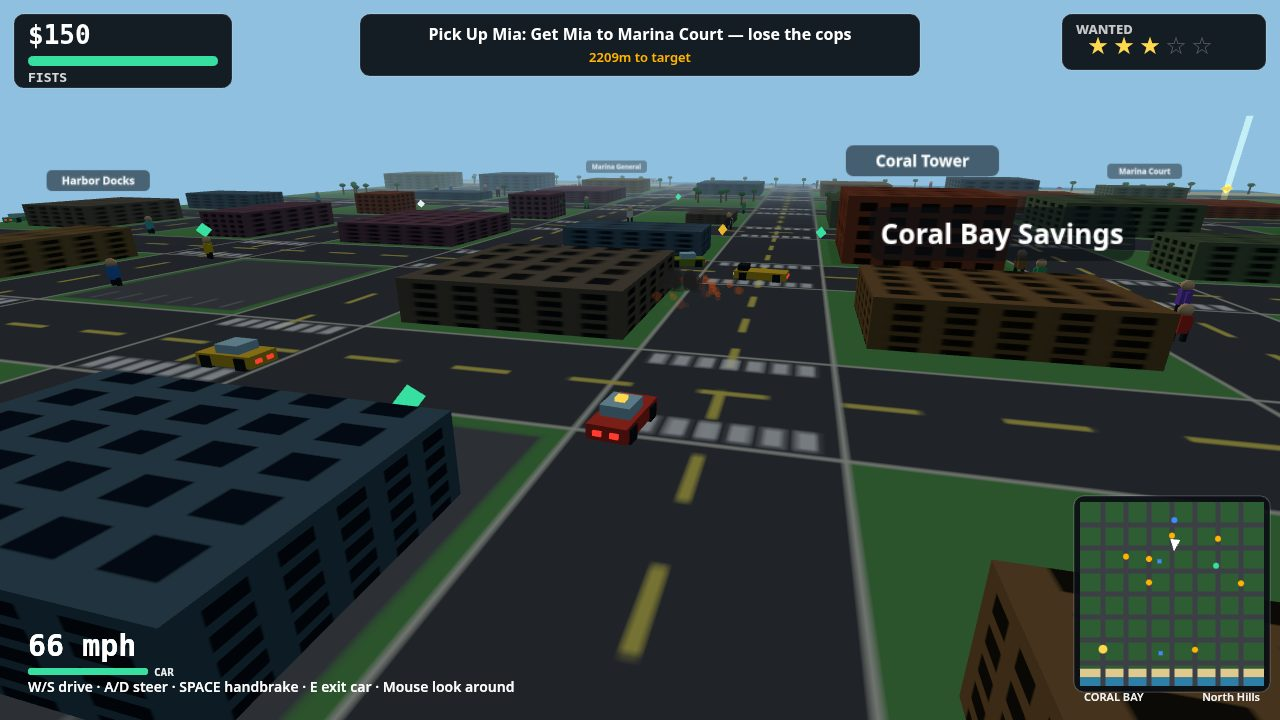
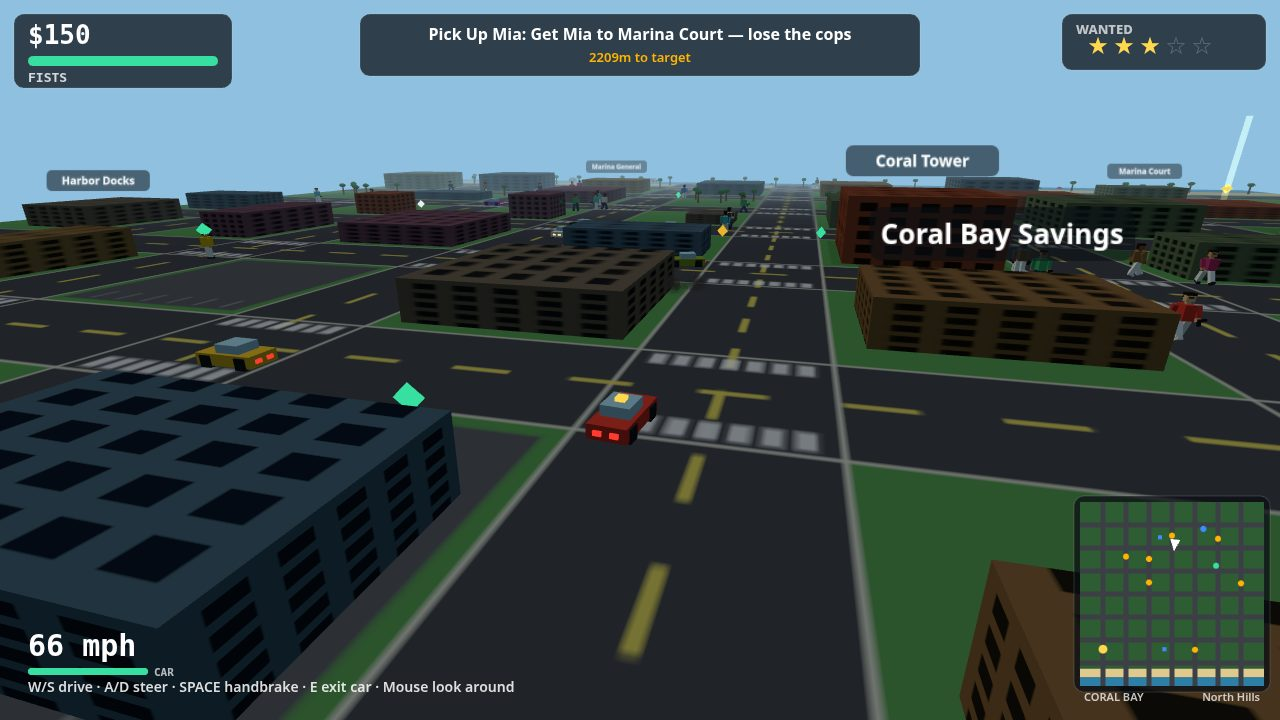
Coral Heat: CJ-style characters — SA-grade humanoid rig + walk/run/aim/punch animation

diff --git a/game/src/render.js b/game/src/render.js
@@ -501,44 +501,119 @@ export function createRenderer(canvas) {
     return { group, body, bodyMat, barL, barR };
   }
 
-  function buildPersonMesh(shirtColor, opts) {
+  // --- Humanoids: one CJ-style rig for everybody. ---
+  // GTA San Andreas reads because CJ is a person first: a head with hair
+  // and a face, a jacket over a tee, jeans, sneakers, and arms and legs
+  // that swing when he walks. The rig is still low-poly boxes on shared
+  // geometry/materials — no shadows, no textures — so it costs draw calls
+  // only. Local +X is forward (rotation.y = -angle, same as the cars).
+  // Limbs hang from pivot groups at the joints, so the walk cycle is a
+  // rotation on each pivot, never a new mesh.
+  const SKINS = ['#e8b98a', '#c98d5f', '#8a5a3a', '#d9a06b'];
+  const PANTS = ['#2f3f66', '#3a3f45', '#5a4a3a', '#2a4a3a'];
+  function hashStr(s) {
+    let h = 0;
+    for (let i = 0; i < s.length; i += 1) h = (h * 31 + s.charCodeAt(i)) >>> 0;
+    return h;
+  }
+  // Danny: teal jacket open over a white tee, blue jeans, white sneakers.
+  // Cop: navy uniform, cap with brim, badge. Thug: dark hoodie, bandana.
+  const OUTFITS = {
+    player: { skin: '#c98d5f', shirt: '#1f8a70', tee: '#f2f2f2', pants: '#2f3f66', shoes: '#f2f2f2', hair: '#1c1410', hat: null, gun: true },
+    cop: { skin: '#d9a06b', shirt: '#2a4a7a', tee: null, pants: '#1e2a38', shoes: '#14161a', hair: '#2a2018', hat: 'police', gun: true },
+    thug: { skin: '#b57a4e', shirt: '#7a2a2a', tee: null, pants: '#33333a', shoes: '#22262b', hair: '#14100c', hat: 'bandana', gun: true },
+  };
+  function pedOutfit(shirtColor) {
+    const h = hashStr(shirtColor || '#c8a24a');
+    return {
+      skin: SKINS[h % SKINS.length],
+      shirt: shirtColor || '#c8a24a',
+      tee: null,
+      pants: PANTS[(h >> 3) % PANTS.length],
+      shoes: (h >> 5) % 2 ? '#f2f2f2' : '#22262b',
+      hair: '#241a12',
+      hat: null,
+      gun: false,
+    };
+  }
+
+  function box(w, h, d, mat, x, y, z, parent) {
+    const m = new THREE.Mesh(unitBox, mat);
+    m.scale.set(w, h, d);
+    m.position.set(x, y, z);
+    parent.add(m);
+    return m;
+  }
+
+  function buildPersonMesh(outfit) {
     const group = new THREE.Group();
-    const shirtMat = lambert(shirtColor);
-    const body = new THREE.Mesh(unitBox, shirtMat);
-    body.scale.set(9, 15, 7);
-    body.position.y = 15;
-    group.add(body);
-    const head = new THREE.Mesh(headGeo, skinMat);
-    head.scale.set(5.2, 5.2, 5.2);
-    head.position.y = 26;
-    group.add(head);
-    for (const z of [5, -5]) {
-      const arm = new THREE.Mesh(unitBox, shirtMat);
-      arm.scale.set(3, 11, 3);
-      arm.position.set(0, 15, z);
-      group.add(arm);
+    const skinMat = lambert(outfit.skin);
+    const shirtMat = lambert(outfit.shirt);
+    const pantsMat = lambert(outfit.pants);
+    const shoesMat = lambert(outfit.shoes);
+    const hairMat = lambert(outfit.hair);
+    const darkMat2 = lambert('#14161a');
+    const teeMat = outfit.tee ? lambert(outfit.tee) : null;
+
+    // Legs: pivot at the hip (y 18), jeans down to the ankle, shoe
+    // pointing forward. rotation.z swings the whole leg forward/back.
+    function buildLeg(z) {
+      const pivot = new THREE.Group();
+      pivot.position.set(0, 18, z);
+      box(5, 15, 4.5, pantsMat, 0, -7.5, 0, pivot);
+      box(6.5, 2.5, 3.5, shoesMat, 1, -15.8, 0, pivot);
+      group.add(pivot);
+      return pivot;
     }
-    for (const z of [4, -4]) {
-      const leg = new THREE.Mesh(unitBox, darkMat);
-      leg.scale.set(4, 9, 3);
-      leg.position.set(0, 4.5, z);
-      group.add(leg);
+    const legL = buildLeg(3.2);
+    const legR = buildLeg(-3.2);
+
+    // Upper body pivots at the hips: it leans forward on a run and
+    // breathes at idle. Torso is the jacket; the tee shows on the chest.
+    const upper = new THREE.Group();
+    upper.position.set(0, 18, 0);
+    group.add(upper);
+    box(13, 13, 8, shirtMat, 0, 6.5, 0, upper);
+    if (teeMat) box(1, 9, 6, teeMat, 6.6, 7, 0, upper);
+    if (outfit.hat === 'police') box(0.6, 2.5, 2.5, lambert('#e8b62a'), 6.6, 9, -2.5, upper);
+
+    // Arms: pivot at the shoulder, sleeve down to the wrist, skin hand.
+    // The pistol rides in the right hand, so it follows the arm.
+    function buildArm(z) {
+      const pivot = new THREE.Group();
+      pivot.position.set(0, 12, z);
+      box(3.5, 10, 3.5, shirtMat, 0, -5, 0, pivot);
+      box(3, 3.5, 3, skinMat, 0, -11.5, 0, pivot);
+      upper.add(pivot);
+      return pivot;
     }
-    let gun = null;
-    if (opts.gun) {
-      gun = new THREE.Mesh(unitBox, darkMat);
-      gun.scale.set(11, 2.5, 2.5);
-      gun.position.set(8, 16, 0);
-      group.add(gun);
-    }
-    if (opts.cap) {
-      const cap = new THREE.Mesh(unitBox, copDarkMat);
-      cap.scale.set(9, 3, 9);
-      cap.position.y = 30;
-      group.add(cap);
+    const armL = buildArm(7.8);
+    const armR = buildArm(-7.8);
+    const gun = new THREE.Group();
+    gun.position.set(2, -12.5, 0);
+    box(9, 2, 2, darkMat2, 3, 0, 0, gun);
+    box(2, 4.5, 2, darkMat2, -0.5, -2, 0, gun);
+    armR.add(gun);
+
+    // Neck, then the head: skin box, hair cap on top and at the back,
+    // one dark eye strip across the face, and a hat where the outfit
+    // calls for one.
+    box(3, 2.5, 3, skinMat, 0, 13.5, 0, upper);
+    const head = new THREE.Group();
+    head.position.set(0, 15, 0);
+    upper.add(head);
+    box(6, 6, 6, skinMat, 0, 3, 0, head);
+    box(6.5, 2, 6.5, hairMat, 0, 6.2, 0, head);
+    box(1.2, 4.5, 6, hairMat, -2.8, 3, 0, head);
+    box(0.6, 1.1, 3.4, darkMat2, 3.1, 3.5, 0, head);
+    if (outfit.hat === 'police') {
+      box(7, 1.8, 7, copDarkMat, 0, 6.5, 0, head);
+      box(4, 0.7, 5.5, darkMat2, 4.2, 5.9, 0, head);
+    } else if (outfit.hat === 'bandana') {
+      box(6.6, 1.4, 6.6, lambert('#c23a2e'), 0, 5.6, 0, head);
     }
     scene.add(group);
-    return { group, gun };
+    return { group, upper, legL, legR, armL, armR, gun };
   }
 
   function buildPickupMesh(kind) {
@@ -582,21 +657,89 @@ export function createRenderer(canvas) {
     }
   }
 
+  // Walk cycle state lives on the pool record (render-side only — the
+  // sim never sees it). Speed comes from position deltas, so it works
+  // for every kind of walker, and the stride phase advances by the
+  // distance actually travelled: a screenshot staged over 2.5 s of sim
+  // still catches its people mid-stride. A fresh record starts in the
+  // pose its motion state implies, so the first paint is already right.
   function syncPerson(obj, kind, time, phase) {
     let rec = personPool.get(obj);
     if (!rec) {
-      if (kind === 'player') rec = buildPersonMesh('#1f8a70', { gun: true });
-      else if (kind === 'cop') rec = buildPersonMesh('#2a4a7a', { gun: true, cap: true });
-      else if (kind === 'thug') rec = buildPersonMesh('#7a2a2a', { gun: true });
-      else rec = buildPersonMesh(obj.shirt || '#c8a24a', { gun: false });
+      const outfit = kind === 'player' ? OUTFITS.player
+        : kind === 'cop' ? OUTFITS.cop
+        : kind === 'thug' ? OUTFITS.thug
+        : pedOutfit(obj.shirt);
+      rec = buildPersonMesh(outfit);
+      rec.lastX = obj.x;
+      rec.lastY = obj.y;
+      rec.lastTime = time;
+      rec.phase = phase;
+      const moving = kind === 'player' ? !!obj.moving : obj.state !== 'down' && obj.state !== 'fare';
+      rec.amp = moving ? 1 : 0;
+      rec.aim = (kind === 'cop' || kind === 'thug' || (kind === 'player' && obj.weapon === 'pistol')) ? 1 : 0;
+      rec.punch = 0;
       personPool.set(obj, rec);
     }
     const down = obj.state === 'down' || obj.hp <= 0;
-    const bob = down ? 0 : Math.abs(Math.sin(time * 9 + phase)) * 1.6;
+    let dt = time - rec.lastTime;
+    if (dt < 0) dt = 0;
+    if (dt > 0.3) dt = 0.3;
+    const moved = Math.hypot(obj.x - rec.lastX, obj.y - rec.lastY);
+    const speed = dt > 0.001 ? Math.min(moved / dt, 420) : 0;
+    rec.lastX = obj.x;
+    rec.lastY = obj.y;
+    rec.lastTime = time;
+    rec.phase += moved * 0.055;
+    const ampTarget = down ? 0 : Math.min(1, speed / 140);
+    rec.amp += (ampTarget - rec.amp) * Math.min(1, dt * 8);
+    const armed = kind === 'cop' || kind === 'thug' || (kind === 'player' && obj.weapon === 'pistol');
+    const aimTarget = down ? 0 : (armed ? 1 : 0);
+    rec.aim += (aimTarget - rec.aim) * Math.min(1, dt * 7);
+    const punchTarget = kind === 'player' && obj.punchAnim > 0 ? 1 : 0;
+    rec.punch += (punchTarget - rec.punch) * Math.min(1, dt * 22);
+
+    const run = Math.min(1, speed / 220);
+    const swing = (0.5 + 0.25 * run) * Math.sin(rec.phase) * rec.amp;
+    // A shooting stance: feet apart, both arms up on the gun.
+    const stance = 0.22 * rec.aim;
+    rec.legL.rotation.z = swing + stance;
+    rec.legR.rotation.z = -swing - stance;
+    const armSwing = swing * 0.8;
+    const idleSway = Math.sin(time * 1.3 + phase) * 0.03 * (1 - rec.amp);
+    let armLz = -armSwing + idleSway;
+    let armRz = armSwing + idleSway;
+    let armLy = 0;
+    let armRy = 0;
+    if (rec.aim > 0.01) {
+      // Right arm straight out on the gun; left arm comes across to
+      // support it. rotation.y turns the forward arm toward the middle.
+      armRz = armRz + (1.45 - armRz) * rec.aim;
+      armLz = armLz + (1.15 - armLz) * rec.aim;
+      armLy = 0.35 * rec.aim;
+      armRy = 0;
+    }
+    if (rec.punch > 0.01 && obj.punchAnim > 0) {
+      // A jab: the right arm snaps forward and back over the punch.
+      const prog = 1 - obj.punchAnim / 0.18;
+      armRz = armRz + (1.35 * Math.sin(prog * Math.PI) - armRz) * rec.punch;
+      armRy = 0;
+    }
+    if (kind === 'ped' && obj.state === 'fare') {
+      // Waiting for a cab, waving it down.
+      armRz = 2.5 + Math.sin(time * 5) * 0.3;
+      armRy = 0;
+    }
+    rec.armL.rotation.set(0, armLy, armLz);
+    rec.armR.rotation.set(0, armRy, armRz);
+    // Lean into a run; breathe at idle.
+    rec.upper.rotation.z = (0.03 + 0.09 * run) * rec.amp;
+    rec.upper.rotation.x = Math.sin(time * 2.2) * 0.012 * (1 - rec.amp);
+    const bob = Math.abs(Math.sin(rec.phase)) * 1.6 * rec.amp;
     rec.group.position.set(obj.x, down ? 3 : bob, obj.y);
     rec.group.rotation.set(0, -obj.angle, down ? Math.PI / 2 : 0);
     rec.group.visible = true;
-    if (rec.gun) rec.gun.visible = kind === 'player' ? obj.weapon === 'pistol' : !down;
+    if (rec.gun) rec.gun.visible = kind !== 'player' || obj.weapon === 'pistol';
     return rec;
   }
 
@@ -787,7 +930,7 @@ export function createRenderer(canvas) {
       const heading = inCar ? p.car.angle : p.angle;
       const yaw = cam ? cam.yaw : 0;
       const pitch = cam ? cam.pitch : CAM3D.pitch;
-      const dist = inCar ? CAM3D.carDist : CAM3D.footDist;
+      const dist = cam && cam.dist ? cam.dist : (inCar ? CAM3D.carDist : CAM3D.footDist);
       const flat = dist * Math.cos(pitch);
       const height = dist * Math.sin(pitch);
       desired = new THREE.Vector3(

diff --git a/game/src/shots.js b/game/src/shots.js
@@ -224,7 +224,7 @@ export function stageShot(name, game) {
   // still in progress — thugs shooting, muzzle flashes — not the aftermath.
   // Short enough that the player is still west of the docks, so the camera
   // is not clamped hard against the map's east edge.
-  for (let i = 0; i < 150; i += 1) {
+  for (let i = 0; i < 90; i += 1) {
     const next = fightAutopilot(state, input);
     if (next) {
       aim = next;
@@ -240,9 +240,14 @@ export function stageShot(name, game) {
     game.update(input, SAMPLE, aim);
     if (state.screen !== 'play') break;
   }
+  // The staging is a real firefight, so the player usually took a hit
+  // moments before the frame — clear the hurt vignette, or the whole
+  // shot comes out red. (Staging only; live play is untouched.)
+  state.player.lastHurt = -100;
   // Camera behind the player, looking at the thug he is shooting at,
-  // angled a little to the side so the player reads in frame.
+  // angled a little to the side so the player reads in frame. Closer
+  // than the normal foot camera: this shot showcases the character.
   const dx = aim.x - state.player.x;
   const dy = aim.y - state.player.y;
-  return { screen: 'play', aimWorld: aim, camYaw: Math.atan2(-dx, -dy) + 0.4 };
+  return { screen: 'play', aimWorld: aim, camYaw: Math.atan2(-dx, -dy) + 0.4, camDist: 175 };
 }

diff --git a/game/src/hud.js b/game/src/hud.js
@@ -306,6 +306,10 @@ export function createHud(canvas) {
   function draw(state, screen, input, buttons) {
     const ratio = window.devicePixelRatio || 1;
     ctx.setTransform(ratio, 0, 0, ratio, 0, 0);
+    // The canvas keeps every frame ever painted on it: without a clear,
+    // the title screen's text and buttons ghost through the whole play
+    // session underneath the HUD panels.
+    ctx.clearRect(0, 0, canvas.width / ratio, canvas.height / ratio);
     if (screen === 'title') {
       drawTitle(state, buttons);
       return;

diff --git a/game/src/main.js b/game/src/main.js
@@ -47,7 +47,7 @@ function announce(message) {
 function runShot(name) {
   const scene = stageShot(name, game);
   const state = game.state;
-  const cam = scene.camYaw === undefined ? null : { yaw: scene.camYaw, pitch: CAM3D.pitch };
+  const cam = scene.camYaw === undefined ? null : { yaw: scene.camYaw, pitch: CAM3D.pitch, dist: scene.camDist };
   if (scene.aimWorld) state.player.muzzle = 0.06;
   // Paint twice: the first paint settles the camera, the second is the frame.
   renderer.draw(state, scene.screen, cam);
